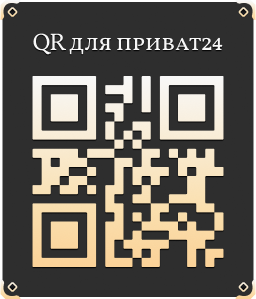
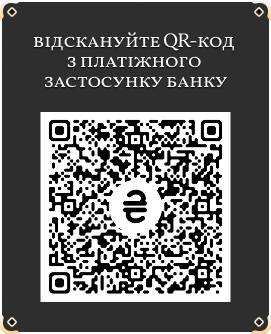
Update payment details in SupportProject.vue and replace QR code image for improved accuracy and relevance.

diff --git a/src/pages/SupportProject.vue b/src/pages/SupportProject.vue
@@ -56,7 +56,7 @@ const copyToClipboard = (text: string) => {
                 <div class="support-project__payment-item">
                     <span class="support-project__payment-label">Найменування отримувача:</span>
                     <div class="support-project__payment-value-container">
-                        <span class="support-project__payment-value">ФОП ГИЧАК ОЛЬГА ВОЛОДИМИРІВНА</span>
+                        <span class="support-project__payment-value">ФОП Тимошенко Дарина Юріївна</span>
                         <img src="@/assets/images/copy-icon.svg" alt="Copy" class="support-project__payment-copy" @click="copyToClipboard('ФОП ГИЧАК ОЛЬГА ВОЛОДИМИРІВНА')">
                     </div>
                 </div>
@@ -64,7 +64,7 @@ const copyToClipboard = (text: string) => {
                 <div class="support-project__payment-item">
                     <span class="support-project__payment-label">Рахунок отримувача (IBAN):</span>
                     <div class="support-project__payment-value-container">
-                        <span class="support-project__payment-value">UA153052990000026006024927081</span>
+                        <span class="support-project__payment-value">UA923052990000026000040719633</span>
                         <img src="@/assets/images/copy-icon.svg" alt="Copy" class="support-project__payment-copy" @click="copyToClipboard('UA153052990000026006024927081')">
                     </div>
                 </div>
@@ -73,7 +73,7 @@ const copyToClipboard = (text: string) => {
                     <div class="support-project__payment-item-half">
                         <span class="support-project__payment-label">Код отримувача:</span>
                         <div class="support-project__payment-value-container">
-                            <span class="support-project__payment-value">3356210484</span>
+                            <span class="support-project__payment-value">3657408504</span>
                             <img src="@/assets/images/copy-icon.svg" alt="Copy" class="support-project__payment-copy" @click="copyToClipboard('3356210484')">
                         </div>
                     </div>
